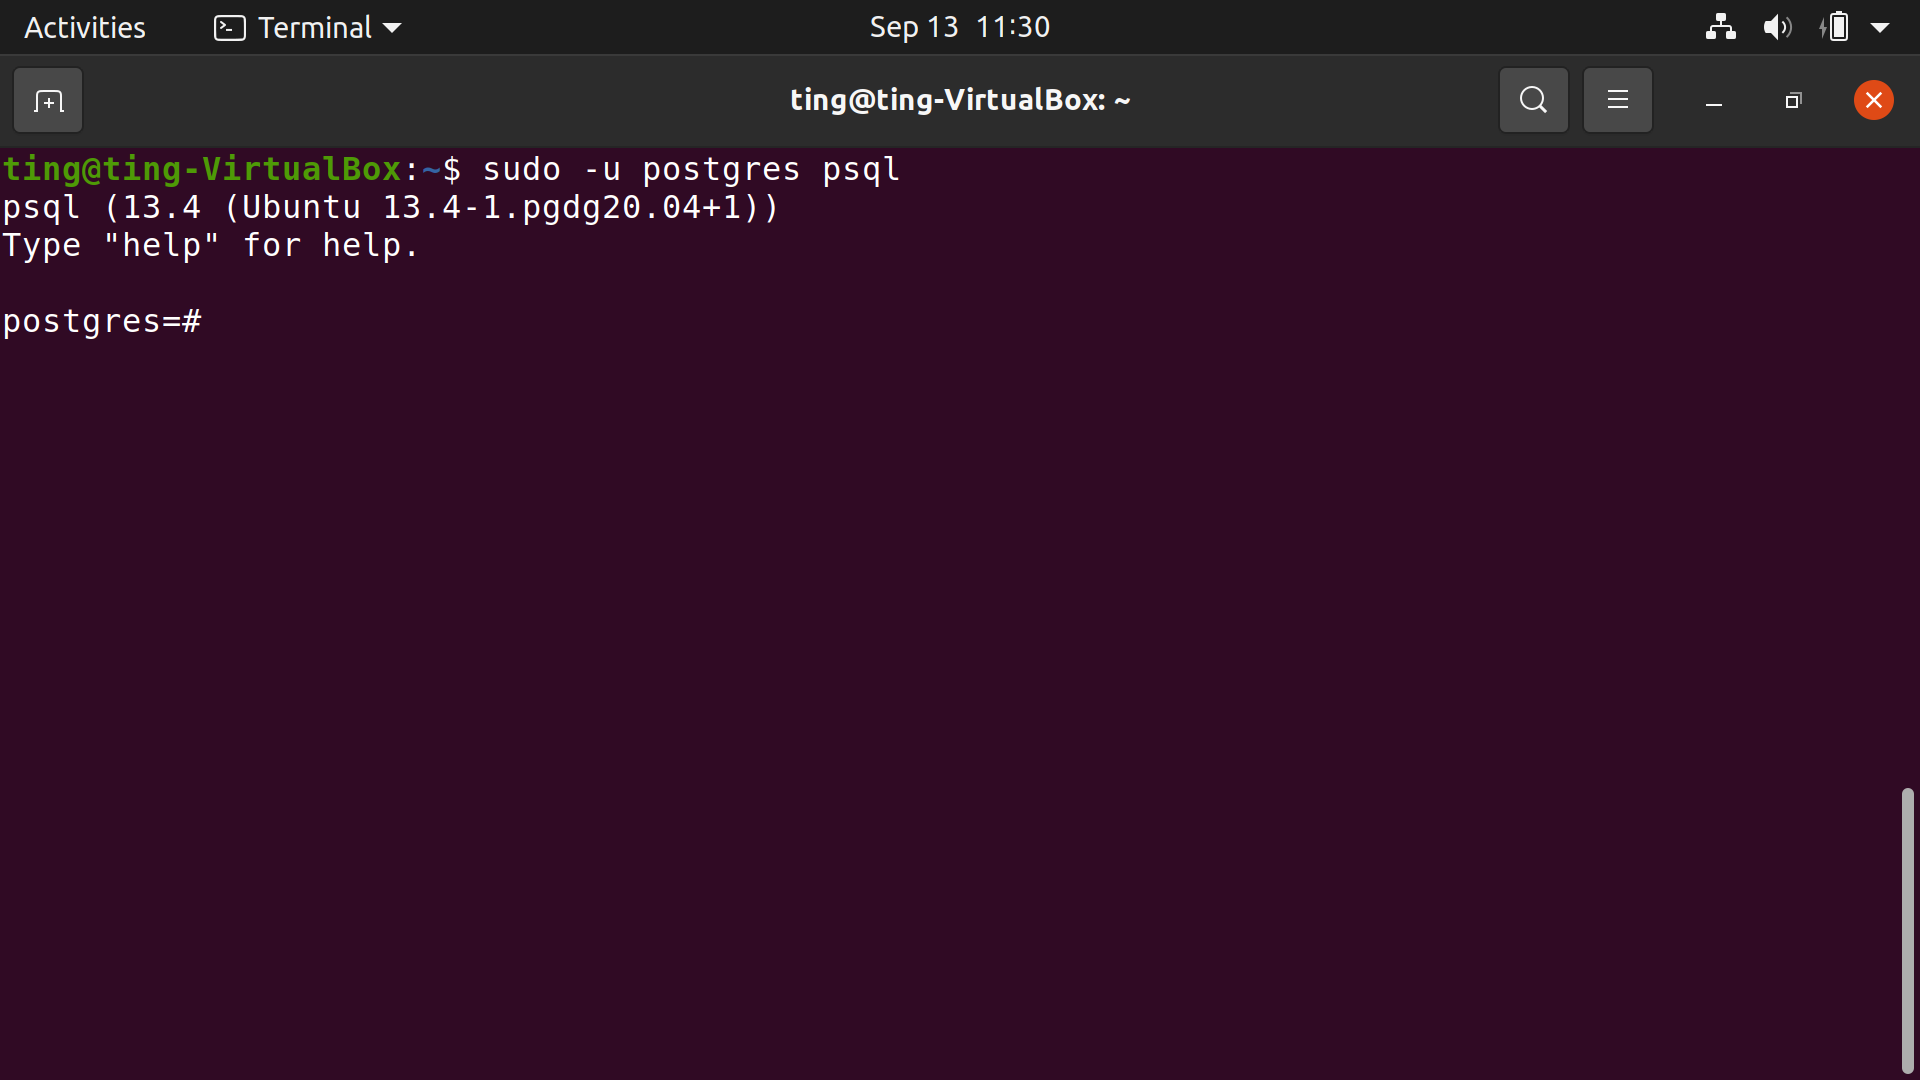
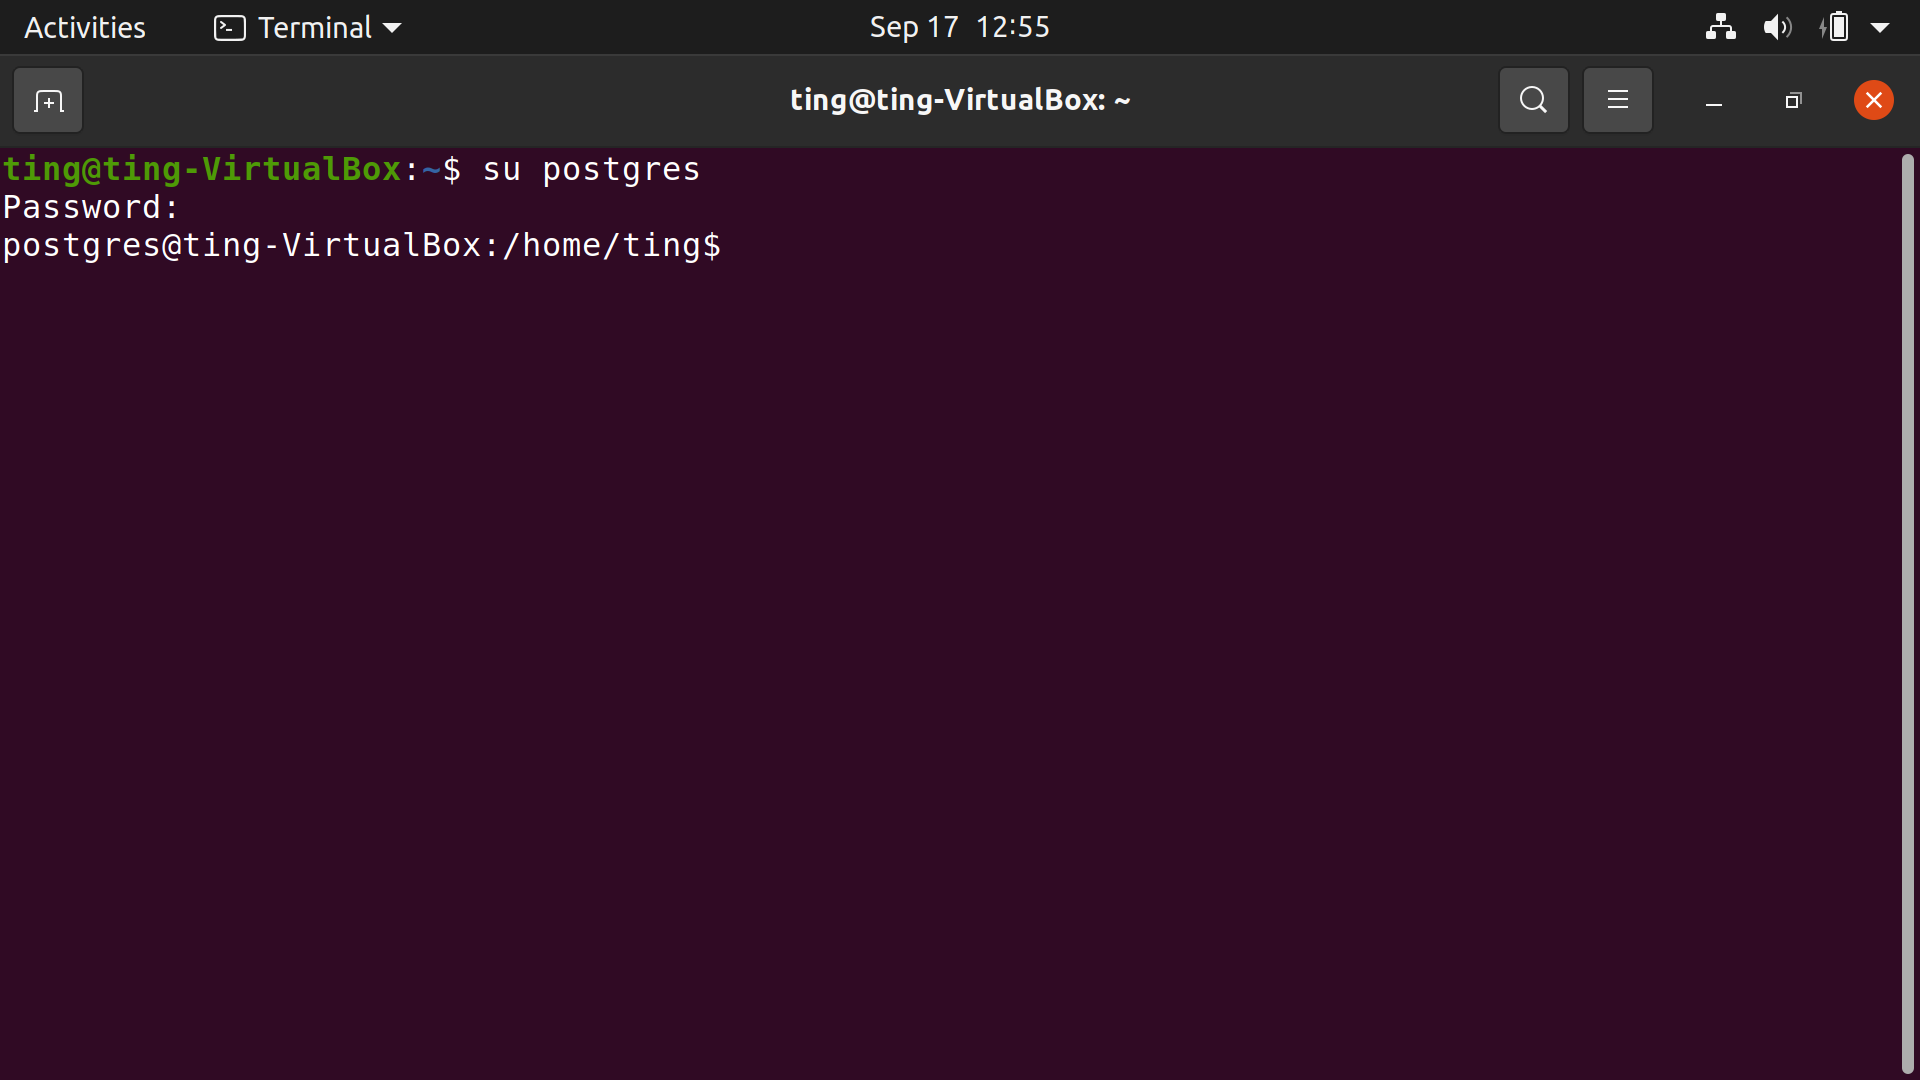
:pencil2: Replaced psql access commands for Ubuntu

diff --git a/day_4/Installation.md b/day_4/Installation.md
@@ -179,21 +179,28 @@ sudo service postgresql start
 
 ![image](./assets/Installation/Set_Password_02.png)
 
-Step 3: Connect to PostgreSQL using `postgres` database user.
+Step 3: Switch to `postgres` system user, enter the password when prompt.
 ```console
-sudo -u postgres psql
+su postgres
 ```
 
 ![image](./assets/Installation/Set_Password_03.png)
 
-Step 4: Use the command below to insert a new password (use the same password as Step 1).
+Step 4: Run psql
 ```console
-\password
+psql
 ```
 
 ![image](./assets/Installation/Set_Password_04.png)
 
-Step 5: Quit the PostgreSQL connection.
+Step 5: Use the command below to insert a new password (use the same password as Step 1).
+```console
+\password
+```
+
+![image](./assets/Installation/Set_Password_05.png)
+
+Step 6: Quit the PostgreSQL connection.
 ```console
 \q
 ```
@@ -269,12 +276,14 @@ Then enter the password you have set just now.
 ![image](./assets/Installation/Using_Terminal_Windows_01.png)
 
 #### **Ubuntu** or **WSL**
-Step 1: Use the command below.
+Step 1: Use the commands below and enter the password you have set previously.
+
 ```console
-sudo -u postgres psql
+su postgres
+psql
 ```
 
-![image](./assets/Installation/Set_Password_03.png)
+![image](./assets/Installation/Set_Password_04.png)
 
 
 ## 5.0 Others
